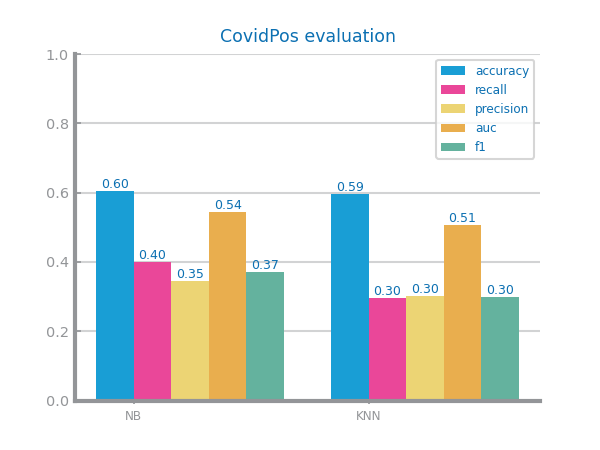
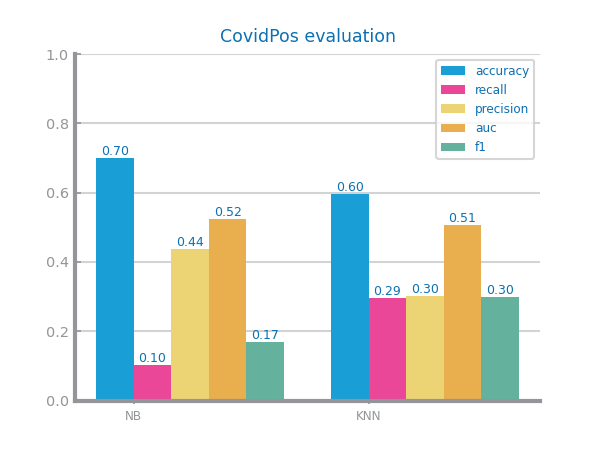
complete balancing and scaling

diff --git a/dataset_1/2-data_preparation/code/balancing.py b/dataset_1/2-data_preparation/code/balancing.py
@@ -6,33 +6,36 @@ from matplotlib.pyplot import figure, savefig, show
 from dslabs_functions import evaluate_approach, plot_multibar_chart
 
 target = "CovidPos"
-data_filename: str = "../data/CovidPos_outliers_rowDrop_NotStdBased.csv"
+data_filename: str = "../data/CovidPos_scaled_zscore.csv"
+data: DataFrame = read_csv(data_filename)
+
 
 def random_train_test_data_split(data: DataFrame) -> list[DataFrame]:
-    train, test = train_test_split(data, test_size=0.2, train_size=0.8)
+    train, test = train_test_split(data, test_size=0.18, train_size=0.82)
     return [train, test]
 
-def balancing_evaluation(data_filename: str, strategy: str):
+def balancing_evaluation(data_filename: str, strategy: str, data_test: DataFrame):
     data: DataFrame = read_csv(data_filename)
-    data=data.sample(frac=1, random_state=42)
     figure()
-    eval: dict[str, list] = evaluate_approach(data.head(int(data.shape[0]*0.8)),
-                                              data.tail(int(data.shape[0]*0.2)),
-                                              target=target, metric="recall")
+
+    testY = data_test[target]
+    eval: dict[str, list] = evaluate_approach(data, data_test, target=target, metric="recall")
     plot_multibar_chart(["NB", "KNN"], eval, title=f"Balacing using {strategy} evaluation", percentage=True)
-    savefig(f"../images/COvidPos_balancing_{strategy}.png")
+    savefig(f"../images/CovidPos_balancing_{strategy}.png")
     show()
+    data_test[target] = testY
     
+print("credit score values",data["CovidPos"].unique())
 
-data: DataFrame = read_csv(data_filename)
-data_balancing_shuffle: DataFrame = data.sample(frac=1, random_state=42)
-data_balancing_shuffle.to_csv("../data/data_balancing_shuffle.csv")
-data_train = random_train_test_data_split(data_balancing_shuffle)[0]
+data_train, data_test = train_test_split(data, test_size=0.2, random_state=42)
 
+# data_train = data.head(int(data.shape[0]*0.8))
+# data_test = data.tail(int(data.shape[0]*0.2))
+# print("training credit score",data_train["Credit_Score"].unique())
 # Approach 1 - undersampling
 target_count: Series = data_train[target].value_counts()
-positive_class = target_count.idxmin()
-negative_class = target_count.idxmax()
+positive_class = target_count.idxmin() # 0.0
+negative_class = target_count.idxmax() # 1.0
 data_positives: Series = data_train[data_train[target] == positive_class]
 data_negatives: Series = data_train[data_train[target] == negative_class]
 
@@ -40,11 +43,22 @@ df_neg_sample: DataFrame = DataFrame(data_negatives.sample(len(data_positives)))
 df_under: DataFrame = concat([data_positives, df_neg_sample], axis=0)
 df_under.to_csv("../data/CovidPos_bal_undersamp.csv", index=False)
 
+print("Undersampling results")
 print("Minority class=", positive_class, ":", len(data_positives))
 print("Majority class=", negative_class, ":", len(df_neg_sample))
 print("Proportion:", round(len(data_positives) / len(df_neg_sample), 2), ": 1")
 
-# Approach 2 - SMOTE
+# Aproach 2 - oversampling
+df_pos_sample: DataFrame = DataFrame(data_positives.sample(len(data_negatives), replace=True))
+df_over: DataFrame = concat([df_pos_sample, data_negatives], axis=0)
+df_over.to_csv(f"../data/CovidPos_bal_over.csv", index=False)
+
+print("Oversampling results")
+print("Minority class=", positive_class, ":", len(df_pos_sample))
+print("Majority class=", negative_class, ":", len(data_negatives))
+print("Proportion:", round(len(df_pos_sample) / len(data_negatives), 2), ": 1")
+
+# Approach 3 - SMOTE
 RANDOM_STATE = 42
 
 smote: SMOTE = SMOTE(sampling_strategy="minority", random_state=RANDOM_STATE)
@@ -56,10 +70,21 @@ df_smote.columns = list(data_train.columns) + [target]
 df_smote.to_csv("../data/CovidPos_bal_SMOTE.csv", index=False)
 
 smote_target_count: Series = Series(smote_y).value_counts()
+print("SMOTE results")
 print("Minority class=", positive_class, ":", smote_target_count[positive_class])
 print("Majority class=", negative_class, ":", smote_target_count[negative_class])
 print("Proportion:",round(smote_target_count[positive_class] / smote_target_count[negative_class], 2),": 1",)
 print(df_smote.shape)
 
-balancing_evaluation("../data/CovidPos_bal_undersamp.csv", "undersampling")
-balancing_evaluation("../data/CovidPos_bal_SMOTE.csv", "SMOTE")
+print("start evaluation 1")
+balancing_evaluation("../data/CovidPos_bal_undersamp.csv", "undersampling", data_test)
+print("start evaluation 2")
+balancing_evaluation("../data/CovidPos_bal_over.csv", "oversampling", data_test)
+print("start evaluation 3")
+balancing_evaluation("../data/CovidPos_bal_SMOTE.csv", "SMOTE", data_test)
+
+
+# valores para
+# Undersampling = 507
+# Oversampling = 502
+# SMOTE = 505

diff --git a/dataset_1/2-data_preparation/code/scaling.py b/dataset_1/2-data_preparation/code/scaling.py
@@ -11,7 +11,6 @@ def scaling_evaluation(data_filename: str, strategy: str, target: str):
     train_data, test_data = train_test_split(data, test_size=0.2, random_state=42)
     ## Evaluate Approach
     file_tag = "CovidPos"
-    target = "CovidPos"
 
     figure()
     eval: dict[str, list] = evaluate_approach(train_data, test_data, target=target, metric="recall")
@@ -30,34 +29,43 @@ data: DataFrame = read_csv(data_filename)
 
 # Approach 1 - Standard scaling (z-score transformation)
 vars: list[str] = data.columns.to_list()
-vars.remove(target)
+#vars.remove(target)
 target_data: Series = data.pop(target)
-
+'''
 transf: StandardScaler = StandardScaler(with_mean=True, with_std=True, copy=True).fit(data)
-df_zscore = DataFrame(transf.transform(data), index=data.index)
+df_zscore = DataFrame(transf.transform(data))
 df_zscore.columns = vars
 df_zscore[target] = target_data
 df_zscore.to_csv(f"../data/CovidPos_scaled_zscore.csv", index=False)
 print(f"Data after standard scaling: {df_zscore.head(20)}")
 #print(get_variable_types(df_zscore))
 scaling_evaluation("../data/CovidPos_scaled_zscore.csv", "Z-Score", target)
-
+'''
 # Approach 2 - Minmax Scaler [0,1]
+vars: list[str] = data.columns.to_list()
+#vars.remove(target)
+target_data: Series = data.pop(target)
+
 transf: MinMaxScaler = MinMaxScaler(feature_range=(0, 1), copy=True).fit(data)
-df_minmax = DataFrame(transf.transform(data), index=data.index)
+df_minmax = DataFrame(transf.transform(data))
 df_minmax[target] = target_data
 df_minmax.columns = vars
 df_minmax.to_csv(f"../data/CovidPos_scaled_minmax.csv", index=False)
 print(f"Data after minmax scaling: {df_minmax.head(20)}")
 #print(get_variable_types(df_minmax))
+scaling_evaluation("../data/CovidPos_scaled_minmax.csv", "MinMax1", target)
 
 #Approach 2 - Minmax Scaler2 [0,10]
 transf: MinMaxScaler = MinMaxScaler(feature_range=(-1, 1), copy=True).fit(data)
-df_minmaxRange = DataFrame(transf.transform(data), index=data.index)
+df_minmaxRange = DataFrame(transf.transform(data))
 df_minmaxRange[target] = target_data
 df_minmaxRange.columns = vars
-df_minmaxRange.to_csv(f"../data/CovidPos_scaled_minmaxRange.csv", index="id")
+df_minmaxRange.to_csv(f"../data/CovidPos_scaled_minmaxRange.csv", index=False)
 print(f"Data after minmax scaling: {df_minmaxRange.head(20)}")
 
-scaling_evaluation("../data/CovidPos_scaled_minmaxRange.csv", "MinMax", target)
+scaling_evaluation("../data/CovidPos_scaled_minmaxRange.csv", "MinMax2", target)
 
+
+## soma do valores 
+# original = 420
+# outros = 449

diff --git a/dataset_1/2-data_preparation/code/outliers.py b/dataset_1/2-data_preparation/code/outliers.py
@@ -32,7 +32,7 @@ for var in data.columns:
     top_threshold, bottom_threshold = determine_outlier_thresholds_for_var(summary5[var])
     outliers: Series = data_outliers_rowDrop[(data_outliers_rowDrop[var] > top_threshold) | (data_outliers_rowDrop[var] < bottom_threshold)]
     data_outliers_rowDrop.drop(outliers.index, axis=0, inplace=True)
-data_outliers_rowDrop.to_csv("../data/CovidPos_outliers_rowDrop_stdBased.csv")
+data_outliers_rowDrop.to_csv("../data/CovidPos_outliers_rowDrop_stdBased.csv", index=False)
 print(f"Data after dropping outliers: {data_outliers_rowDrop.shape}")
 outliers_evaluation("../data/CovidPos_outliers_rowDrop_stdBased.csv", "rowDrop_stdBased")
 
@@ -45,7 +45,7 @@ for var in data.columns:
     top_threshold, bottom_threshold = determine_outlier_thresholds_for_var(summary5[var], std_based=False)
     outliers: Series = data_outliers_rowDrop[(data_outliers_rowDrop[var] > top_threshold) | (data_outliers_rowDrop[var] < bottom_threshold)]
     data_outliers_rowDrop.drop(outliers.index, axis=0, inplace=True)
-data_outliers_rowDrop.to_csv("../data/CovidPos_outliers_rowDrop_NotStdBased.csv")
+data_outliers_rowDrop.to_csv("../data/CovidPos_outliers_rowDrop_NotStdBased.csv", index=False)
 print(f"Data after dropping outliers: {data_outliers_rowDrop.shape}")
 outliers_evaluation("../data/CovidPos_outliers_rowDrop_NotStdBased.csv", "rowDrop_NotStdBased")
 
@@ -57,7 +57,7 @@ for var in data.columns:
     top, bottom = determine_outlier_thresholds_for_var(summary5[var])
     median: float = data_outliers_rep_fixedMedian[var].median()
     data_outliers_rep_fixedMedian[var] = data_outliers_rep_fixedMedian[var].apply(lambda x: median if x > top or x < bottom else x)
-data_outliers_rep_fixedMedian.to_csv("../data/CovidPos_outliers_rep_fixed_median.csv")
+data_outliers_rep_fixedMedian.to_csv("../data/CovidPos_outliers_rep_fixed_median.csv", index=False)
 print(f"Data after replacing outliers: {data_outliers_rep_fixedMedian.shape}")
 outliers_evaluation("../data/CovidPos_outliers_rep_fixed_median.csv", "rep_fixed_median")
 
@@ -71,3 +71,11 @@ for var in data.columns:
 data_outliers_trunc.to_csv("../data/CovidPos_outliers_trunc_minmax.csv")
 print(f"Data after truncating outliers: {data_outliers_trunc.shape}")
 outliers_evaluation("../data/CovidPos_outliers_trunc_minmax.csv", "truncating_minmax")
+
+
+# Soma de valores:
+# original = 420
+# rowDrop_stdBased = 385
+# rowDrop_NotStdBased = 371
+# rep_fixed_median = 393
+# truncating_minmax = 398

diff --git a/dataset_1/2-data_preparation/code/encoding.py b/dataset_1/2-data_preparation/code/encoding.py
@@ -155,7 +155,7 @@ print(int(shuffled.shape[1]))
 
 print("frequent")
 data_filling_frequent = mvi_by_filling(shuffled, "frequent", og_symb_vars, og_num_vars, 3)
-data_filling_frequent.to_csv("../data/ccs_mvi_fill_frequent.csv")
+data_filling_frequent.to_csv("../data/ccs_mvi_fill_frequent.csv", index=False)
 
 print("Frequent")
 
@@ -184,7 +184,7 @@ data_knn_shuffle.to_csv("../data/ccs_mvi_fill_knn_shuffle.csv")'''
 
 print("knn")
 data_filling_knn = mvi_by_filling(shuffled, "knn", og_symb_vars, og_num_vars, 3)
-data_filling_knn.to_csv("../data/ccs_mvi_fill_knn.csv") 
+data_filling_knn.to_csv("../data/ccs_mvi_fill_knn.csv", index=False) 
 
 ############################################# MV Evaluation KNN #############################################
 
@@ -196,3 +196,7 @@ eval: dict[str, list] = evaluate_approach(data_filling_knn.head(int(data_filling
 
 plot_multibar_chart(["NB", "KNN"], eval, title=f"{file_tag} evaluation", percentage=True)
 savefig(f"../images/{file_tag}_mvi_knn_eval.png")
+
+# Soma dos valoree
+# frequent = 453
+# knn = 456

diff --git a/dataset_1/2-data_preparation/code/dslabs_functions.py b/dataset_1/2-data_preparation/code/dslabs_functions.py
@@ -652,7 +652,7 @@ CLASS_EVAL_METRICS: dict[str, Callable] = {
 def run_NB(trnX, trnY, tstX, tstY, metric: str = "accuracy") -> dict[str, float]:
     estimators: dict[str, GaussianNB | MultinomialNB | BernoulliNB] = {
         "GaussianNB": GaussianNB(),
-        "MultinomialNB": MultinomialNB(),
+        #"MultinomialNB": MultinomialNB(),
         "BernoulliNB": BernoulliNB(),
     }
     best_model: GaussianNB | MultinomialNB | BernoulliNB = None  # type: ignore
